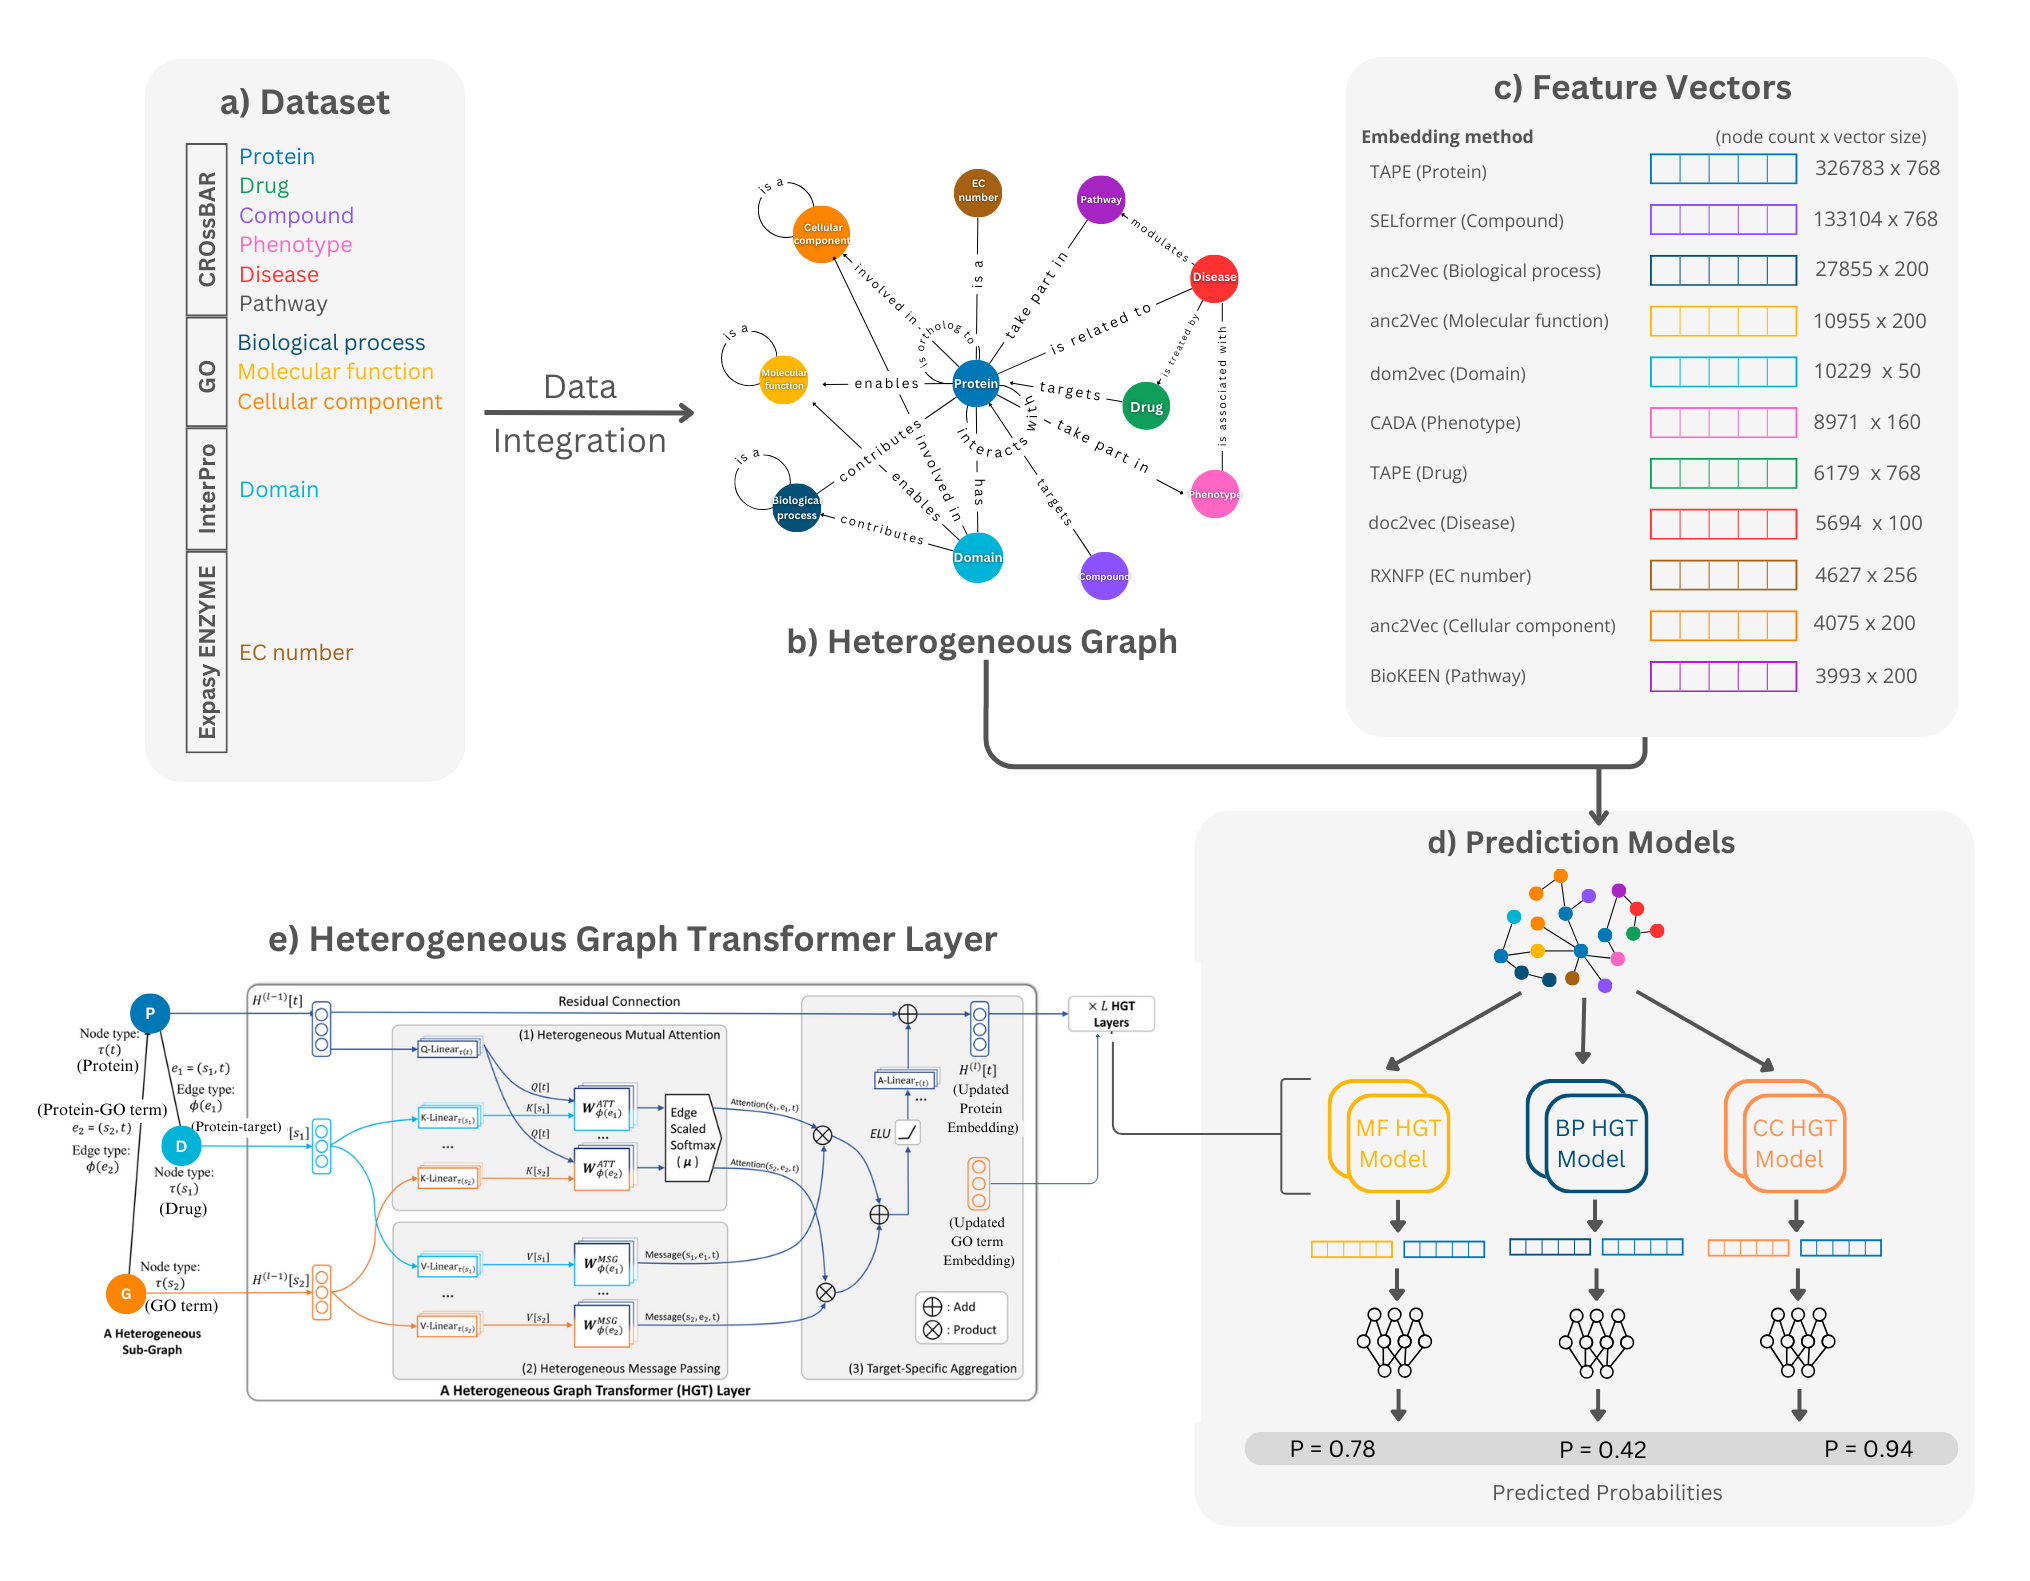
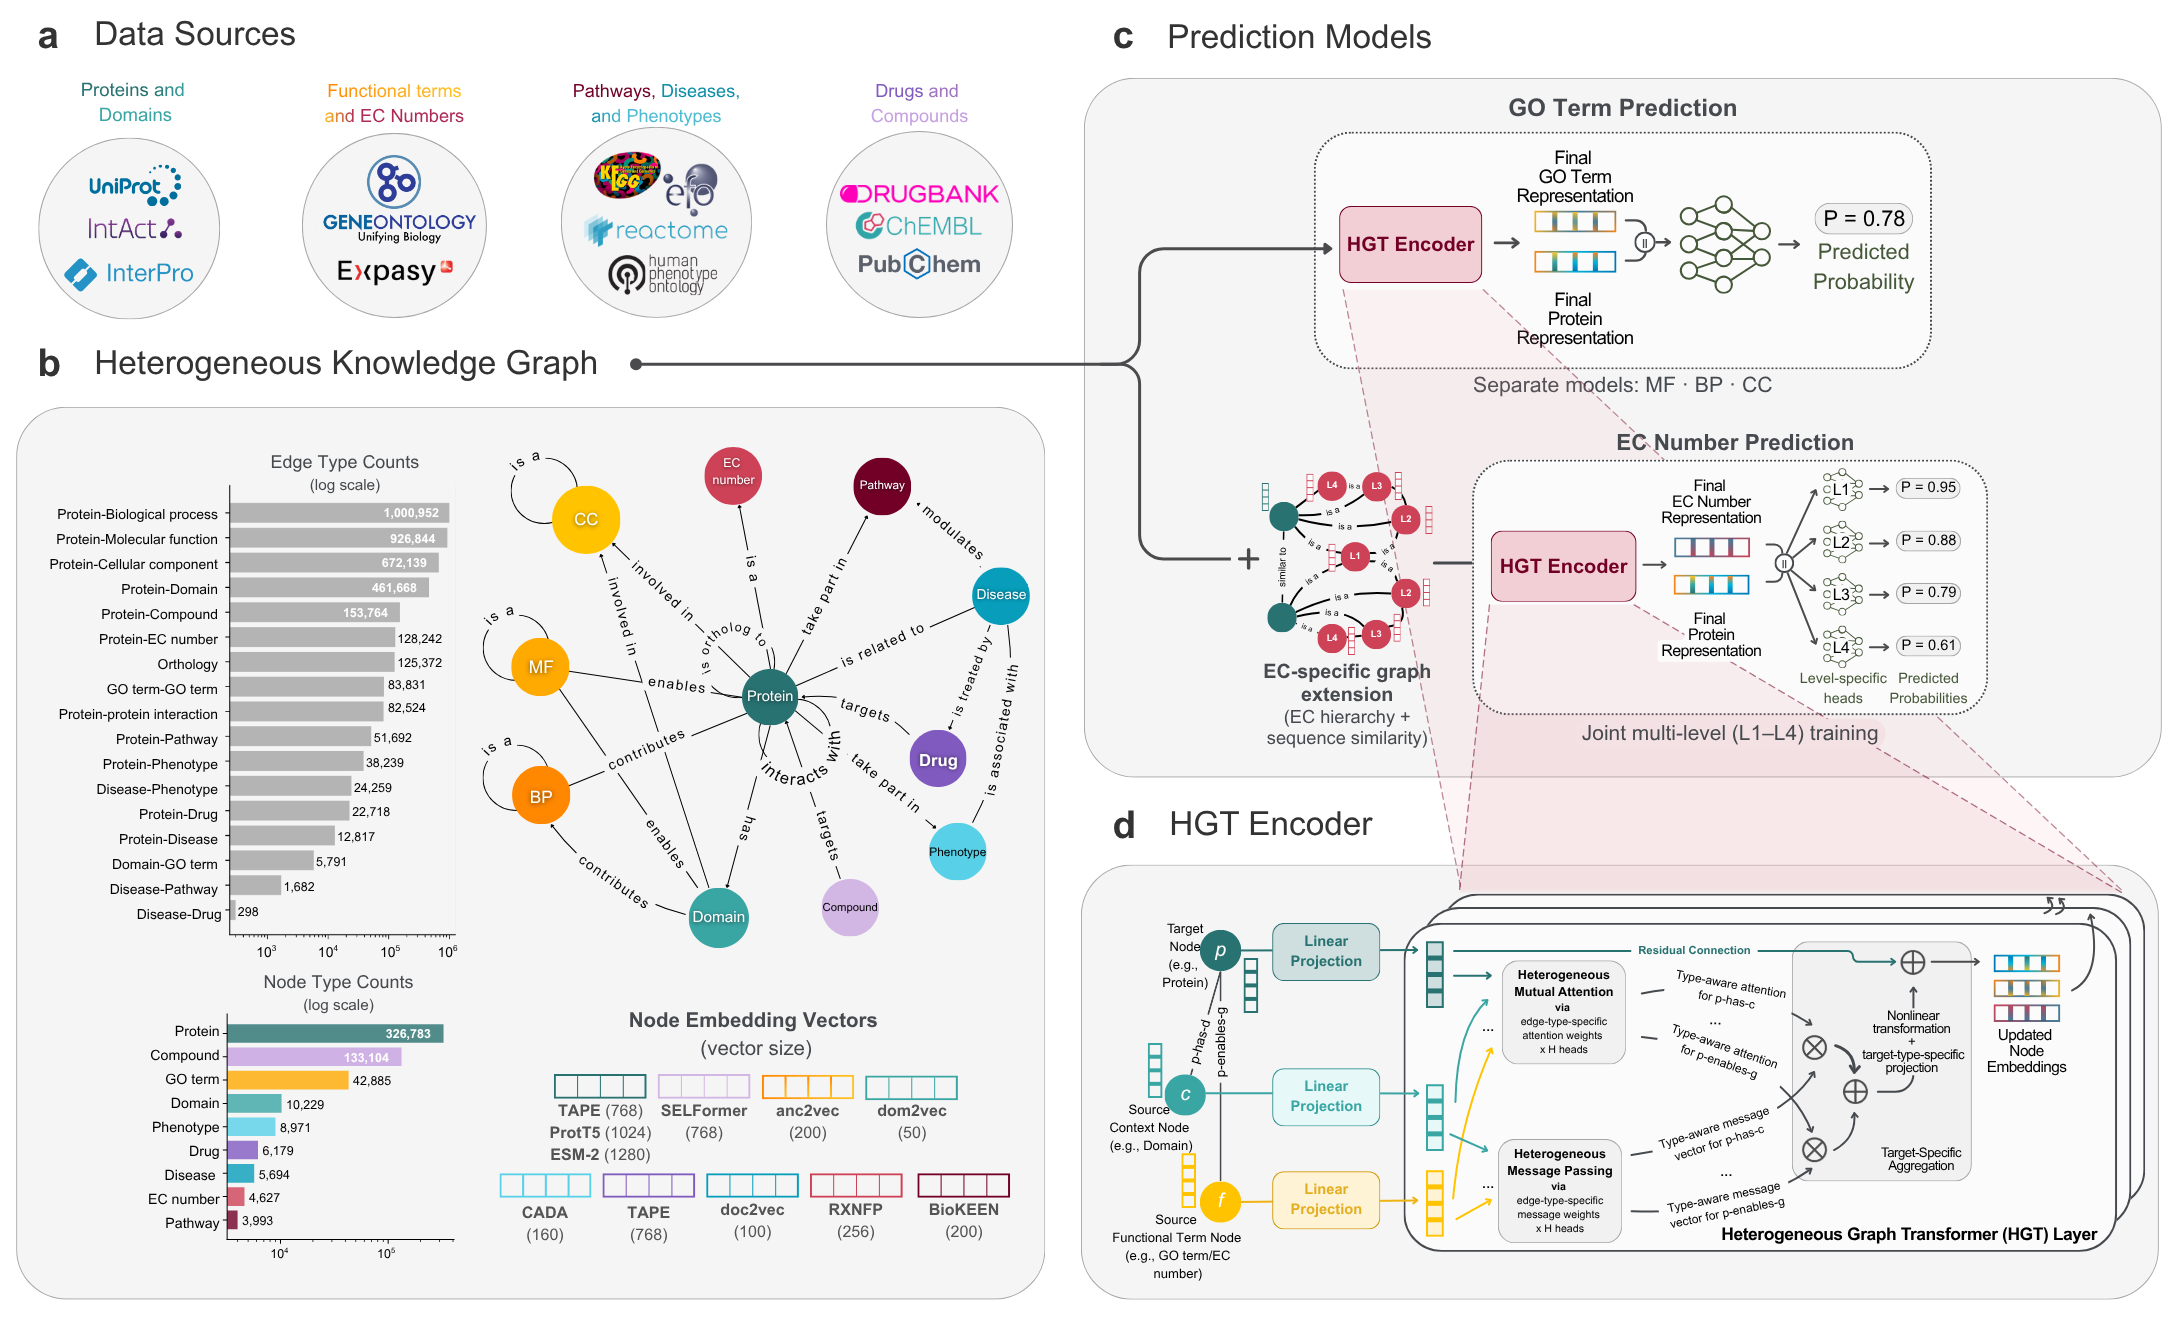
update overview figure
Refresh the overview image and README caption to describe the expanded protein function and EC number prediction workflow.

diff --git a/README.md b/README.md
@@ -5,9 +5,9 @@
 The rapid accumulation of protein sequence data, coupled with the slow pace of experimental annotations, creates a critical need for computational methods to predict protein functions. Existing models often rely on limited data types, such as sequence-based features or protein-protein interactions (PPIs), failing to capture the complex molecular relationships in biological systems. To address this, we developed ProtHGT, a heterogeneous graph transformer-based model that integrates diverse biological datasets into a unified framework using knowledge graphs for accurate and interpretable protein function prediction.
 ProtHGT achieves state-of-the-art performance on benchmark datasets, demonstrating its ability to outperform current graph-based and sequence-based approaches. By leveraging diverse biological entity types and highly representative protein language model embeddings at the input level, the model effectively learns complex biological relationships, enabling accurate predictions across all Gene Ontology (GO) sub-ontologies. Ablation analyses highlight the critical role of heterogeneous data integration in achieving robust predictions. Finally, our use-case study has indicated that it’s possible to interpret ProtHGT’s predictions via exploring the related parts of our input biological knowledge graph, offering plausible explanations to build or test new hypotheses.
 
-| ![alt text for screen readers](overview.png "Schematic workflow of the Domain2GO") | 
+| ![Overview of the ProtHGT framework](overview.png "Overview of the ProtHGT framework") | 
 |:--:| 
-| **Schematic representation of the ProtHGT framework.** **a)** Diverse biological datasets, including proteins, pathways, domains, and GO terms, are integrated into a unified knowledge graph; **b)** the heterogeneous graph is constructed, capturing multi-relational biological associations; **c)** feature vectors for each node type are generated using state-of-the-art embedding methods; **d)** protein function prediction models are trained separately for molecular function, biological process, and cellular component sub-ontologies; **e)** heterogeneous graph transformer (HGT) layers process and refine node representations through multi-relational message passing. Final protein function predictions are obtained by linking proteins to GO terms based on learned embeddings and attention-weighted relationships. |
+| **Figure 1. The overview of ProtHGT.** **(a)** Multiple biological entity types and their relationships are integrated from diverse source databases, including proteins, GO terms, compounds, domains, phenotypes, drugs, diseases, EC numbers, and pathways. **(b)** The resulting heterogeneous knowledge graph comprises multiple node and relationship types, with node- and edge-type distributions shown on logarithmic scales and initial node features derived using data-type-specific embedding methods. **(c)** For GO term prediction, separate models are trained for the molecular function (MF), biological process (BP), and cellular component (CC) sub-ontologies, with the refined protein and GO term representations combined for link prediction. For EC number prediction, the base graph is extended with the four-level EC hierarchy and protein sequence-similarity relationships, and the refined protein and EC representations are combined across four level-specific prediction heads that are jointly trained to predict functions from the main class (L1) to complete EC numbers (L4). **(d)** The heterogeneous graph transformer (HGT) encoder architecture is common to both tasks, although each model is trained independently. The encoder performs type-aware attention, message passing, and aggregation across heterogeneous node and edge types to generate contextually refined node representations. The encoder updates the representations of all node types in the graph; for clarity, only those used in the prediction step and one additional context node are shown. |
 
 ## Content <!-- omit in toc -->
 - [The Architecture of ProtHGT](#the-architecture-of-prothgt)
